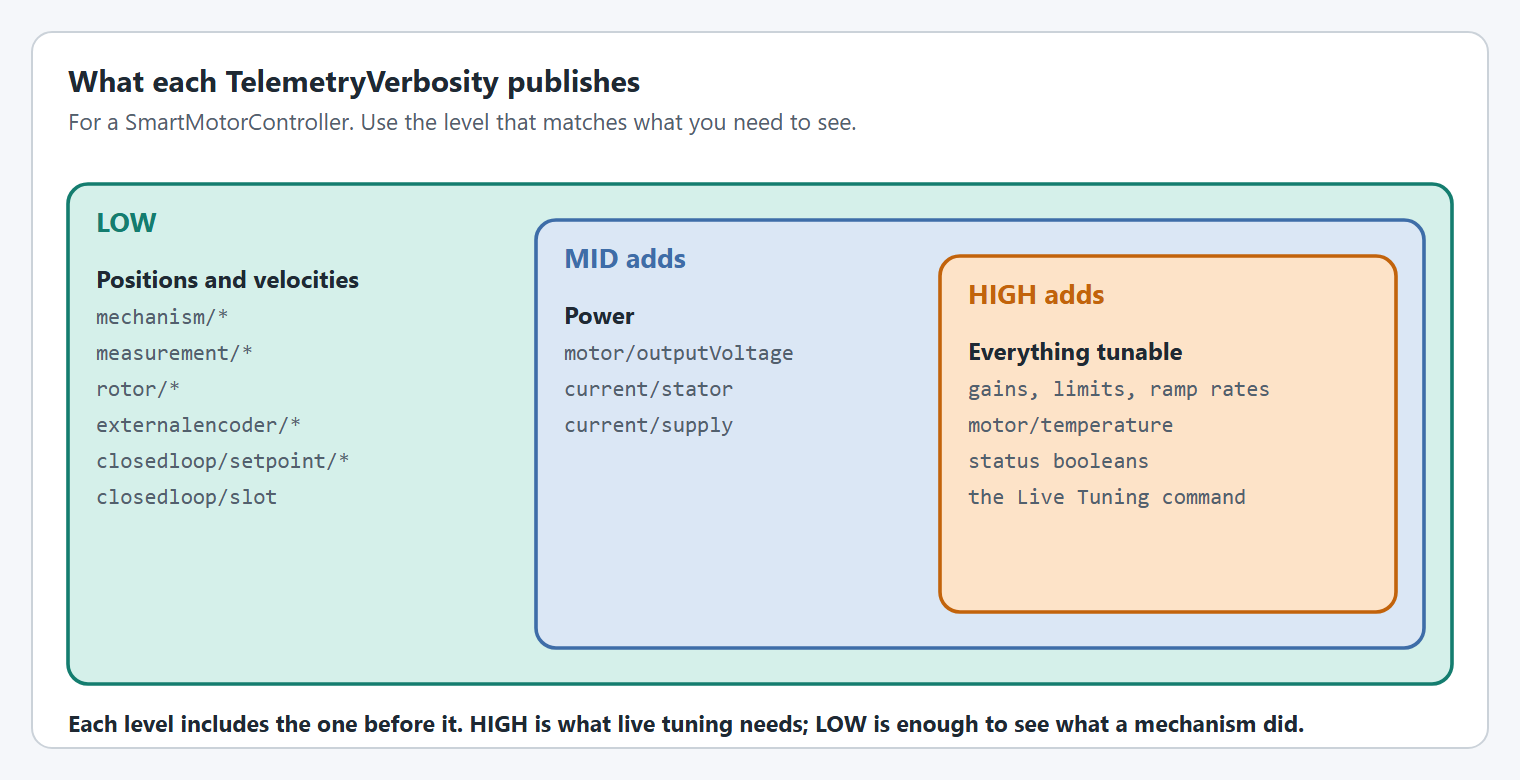
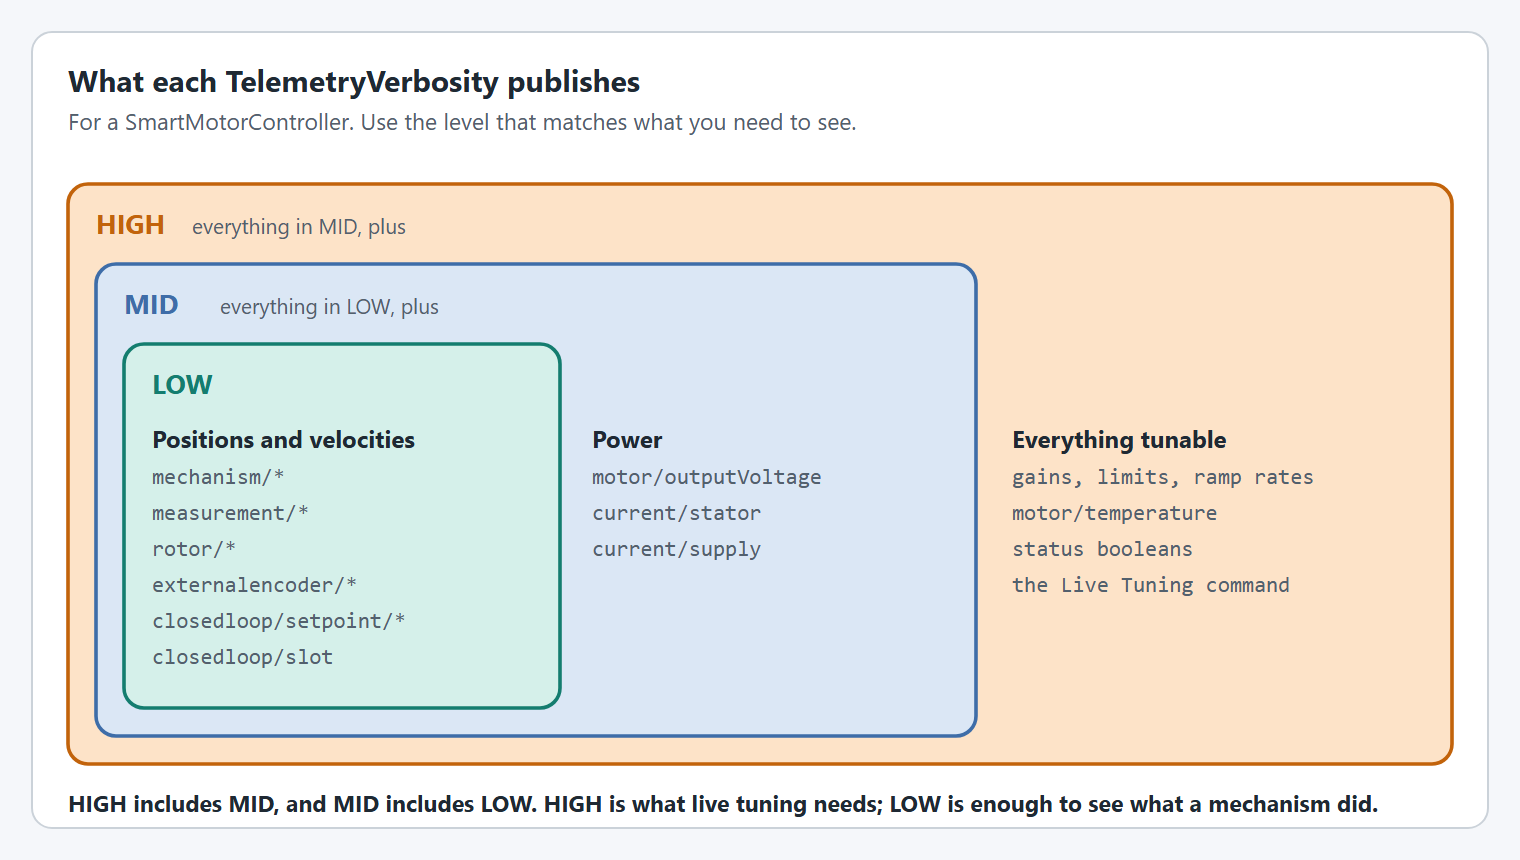
SwerveInputStream: one animation per function in its own section, and nest the verbosity graphic with HIGH outermost

Changed region(s): [[0.0309, 0.0308, 0.9895, 0.9846], [0.6803, 0.6769, 0.8349, 0.7077]]

diff --git a/details/swerve-input-stream.md b/details/swerve-input-stream.md
@@ -136,13 +136,26 @@ The scale is applied **before** the cube. With `withScaleTranslation(0.8)` and t
 
 ## Velocity Limits
 
+The maximum velocities are what a fully pushed stick produces.
+
+### `withMaximumLinearVelocity`
+
+`withMaximumLinearVelocity(LinearVelocity)` sets the top driving speed.
+
 <figure><img src="../.gitbook/assets/sis-velocity-limits.gif" alt="Animation of two robots with the stick fully pushed. With a maximum of 2.0 meters per second the robot moves slowly, with 4.5 meters per second it moves more than twice as fast"><figcaption><p>The same full stick with two maximum velocities.</p></figcaption></figure>
 
-`withMaximumLinearVelocity(LinearVelocity)` and `withMaximumAngularVelocity(AngularVelocity)` set the chassis speed a fully-deflected stick produces.
+```java
+input.withMaximumLinearVelocity(MetersPerSecond.of(4.5));
+```
+
+### `withMaximumAngularVelocity`
+
+`withMaximumAngularVelocity(AngularVelocity)` sets the top turn rate.
+
+<figure><img src="../.gitbook/assets/sis-max-angular-velocity.gif" alt="Animation of two robots with the right stick fully pushed. With a maximum of 180 degrees per second the robot turns slowly, with 360 degrees per second it turns twice as fast"><figcaption><p>The same full stick with two maximum angular velocities.</p></figcaption></figure>
 
 ```java
-input.withMaximumLinearVelocity(MetersPerSecond.of(4.5))
-     .withMaximumAngularVelocity(DegreesPerSecond.of(360));
+input.withMaximumAngularVelocity(DegreesPerSecond.of(360));
 ```
 
 {% hint style="info" %}
@@ -151,20 +164,33 @@ A stream copies `SwerveDriveConfig.withMaximumChassisSpeed(...)`'s value (if set
 
 ## Controller Axes
 
-<figure><img src="../.gitbook/assets/sis-controller-axes.gif" alt="Animation of the right stick turning the robot in two ways. With a rotation axis the stick sets how fast the robot spins. With heading axes the stick points in a direction and the robot turns to face it"><figcaption><p>A rotation axis sets a turn rate. Heading axes set a direction to face.</p></figcaption></figure>
+Both methods set or replace a rotation source after construction. That is useful when a stream starts out with `SwerveInputStream.of(drive, x, y)` (no rotation source at all) and gains one later.
 
-`withControllerRotationAxis(DoubleSupplier)` sets or replaces the rotation axis after construction, and `withControllerHeadingAxis(DoubleSupplier, DoubleSupplier)` sets or replaces the pair of axes used to compute a target heading for `HEADING` mode. Both are useful when a stream starts out with `SwerveInputStream.of(drive, x, y)` (no rotation source at all) and gains one later.
+### `withControllerRotationAxis`
+
+`withControllerRotationAxis(DoubleSupplier)` sets the axis that says how fast the robot turns.
+
+<figure><img src="../.gitbook/assets/sis-rotation-axis.gif" alt="Animation of the right stick pushed left and then right. Pushed left the robot turns counter-clockwise, pushed right it turns clockwise"><figcaption><p>One axis sets a turn rate.</p></figcaption></figure>
 
 ```java
 input.withControllerRotationAxis(() -> -driver.getRightX());
+```
+
+### `withControllerHeadingAxis`
+
+`withControllerHeadingAxis(DoubleSupplier, DoubleSupplier)` sets the pair of axes whose direction becomes a target heading. It does nothing on its own: the heading is used by [`withHeadingControl`](#withheadingcontrol) in `HEADING` mode.
+
+<figure><img src="../.gitbook/assets/sis-heading-axis.gif" alt="Animation of the right stick moving around its edge while a dial shows the heading it asks for. Stick up is 0 degrees, stick left is 90 degrees, stick down is 180 degrees and stick right is minus 90 degrees"><figcaption><p>Two axes set a direction to face.</p></figcaption></figure>
+
+```java
 input.withControllerHeadingAxis(() -> -driver.getRightX(), () -> -driver.getRightY());
 ```
 
 ## Deadband
 
-<figure><img src="../.gitbook/assets/sis-deadband.gif" alt="Animation of a stick at rest reading small non-zero values. Without a deadband the robot creeps across the field. With a 0.1 deadband it stays still"><figcaption><p>Stick drift with and without a deadband.</p></figcaption></figure>
-
 `withDeadband(double)` (an alias for `deadband(double)`) applies the same deadband to every axis before any scaling or cubing happens. `0` clears it.
+
+<figure><img src="../.gitbook/assets/sis-deadband.gif" alt="Animation of a stick at rest reading small non-zero values. Without a deadband the robot creeps across the field. With a 0.1 deadband it stays still"><figcaption><p>Stick drift with and without a deadband.</p></figcaption></figure>
 
 ```java
 input.withDeadband(0.05);
@@ -172,24 +198,50 @@ input.withDeadband(0.05);
 
 ## Axis Scaling
 
-<figure><img src="../.gitbook/assets/sis-scaling.gif" alt="Animation of two robots with the stick fully pushed. With no scale the robot moves at full speed, with a scale of 0.5 it moves at half speed"><figcaption><p>A scale of 0.5 as a slow mode.</p></figcaption></figure>
+The scale methods multiply the stick output by a constant in `(0, 1]`, useful for a "slow mode" that doesn't require re-mapping the physical stick range.
 
-`withScaleTranslation(double)` and `withScaleRotation(double)` multiply the translation and rotation axis output by a constant in `(0, 1]`, useful for a "slow mode" that doesn't require re-mapping the physical stick range.
+### `withScaleTranslation`
+
+`withScaleTranslation(double)` scales the driving speed.
+
+<figure><img src="../.gitbook/assets/sis-scaling.gif" alt="Animation of two robots with the left stick fully pushed. With no scale the robot moves at full speed, with a scale of 0.5 it moves at half speed"><figcaption><p>A translation scale of 0.5.</p></figcaption></figure>
 
 ```java
-input.withScaleTranslation(0.5)
-     .withScaleRotation(0.5); // e.g. bound to a "slow mode" trigger
+input.withScaleTranslation(0.5); // e.g. bound to a "slow mode" trigger
+```
+
+### `withScaleRotation`
+
+`withScaleRotation(double)` scales the turn rate.
+
+<figure><img src="../.gitbook/assets/sis-scale-rotation.gif" alt="Animation of two robots with the right stick fully pushed. With no scale the robot turns at the full rate, with a scale of 0.5 it turns at half the rate"><figcaption><p>A rotation scale of 0.5.</p></figcaption></figure>
+
+```java
+input.withScaleRotation(0.5);
 ```
 
 ## Non-Linear (Cubic) Response
 
+Cubing gives finer control near the center of the stick without sacrificing full speed at the edges. Each method also has a `BooleanSupplier` overload to toggle the effect live.
+
+### `withCubeTranslationControllerAxis`
+
+`withCubeTranslationControllerAxis()` cubes the translation magnitude.
+
 <figure><img src="../.gitbook/assets/sis-cube.gif" alt="Animation of a stick sweeping from center to full and back, with two bars and a graph. The linear output follows the stick. The cubed output stays very small until the stick is pushed far, then rises to the same maximum"><figcaption><p>Linear and cubed response to the same stick.</p></figcaption></figure>
 
-`withCubeTranslationControllerAxis()` and `withCubeRotationControllerAxis()` cube the translation magnitude and rotation axis respectively, giving finer control near the center of the stick without sacrificing full speed at the edges. Each also has a `BooleanSupplier` overload to toggle the effect live.
+```java
+input.withCubeTranslationControllerAxis();
+```
+
+### `withCubeRotationControllerAxis`
+
+`withCubeRotationControllerAxis()` cubes the rotation axis.
+
+<figure><img src="../.gitbook/assets/sis-cube-rotation.gif" alt="Animation of the right stick sweeping from center to full and back, with two bars and a graph. The linear turn rate follows the stick. The cubed turn rate stays very small until the stick is pushed far, then rises to the same maximum"><figcaption><p>Linear and cubed turn rate from the same stick.</p></figcaption></figure>
 
 ```java
-input.withCubeTranslationControllerAxis()
-     .withCubeRotationControllerAxis(driver::getBButton);
+input.withCubeRotationControllerAxis(driver::getBButton); // only while B is held
 ```
 
 ## Modes Are Chosen Automatically
@@ -198,17 +250,17 @@ A stream is always in exactly one of four internal modes: `ANGULAR_VELOCITY` (th
 
 `HEADING`, `AIM` and `TRANSLATION_ONLY` turn the robot with the rotation controller from `SwerveDriveConfig.withRotationController(...)`, so configure one before using them.
 
-<figure><img src="../.gitbook/assets/swerve-input-stream-modes.gif" alt="Animation of three modes. ANGULAR_VELOCITY: the right stick sets how fast the robot turns. HEADING: the right stick points where the robot should face and it turns there and holds. AIM: the robot keeps facing a target while the left stick drives it sideways"><figcaption><p>The three modes that turn the robot. <code>TRANSLATION_ONLY</code> holds the current heading instead.</p></figcaption></figure>
-
 {% hint style="info" %}
 `SwerveInputStream` used to have a `DRIVE_TO_POSE` mode and a matching `atTargetPose(...)` method; both have been removed. Use [`SwerveDrive.driveToPose(...)`](swerve-drive.md#auto-align) for auto-align instead.
 {% endhint %}
 
 ### Heading-Snap Control
 
-<figure><img src="../.gitbook/assets/sis-heading.gif" alt="Animation of the right stick pointing in three directions in turn, and the robot turning to face each direction and holding it"><figcaption><p><code>HEADING</code> mode: the robot faces where the right stick points.</p></figcaption></figure>
+#### `withHeadingControl`
 
-`withHeadingControl(trigger)` enables `HEADING` while `trigger` reports true, snapping to a heading derived from `withControllerHeadingAxis(x, y)` instead of rotating at a velocity. The robot stops turning while the heading stick is inside the deadband.
+`withHeadingControl(trigger)` enables `HEADING` while `trigger` reports true, snapping to a heading derived from [`withControllerHeadingAxis(x, y)`](#withcontrollerheadingaxis) instead of rotating at a velocity. The robot stops turning while the heading stick is inside the deadband.
+
+<figure><img src="../.gitbook/assets/sis-heading.gif" alt="Animation of the right stick pointing in three directions in turn, and the robot turning to face each direction and holding it"><figcaption><p><code>HEADING</code> mode: the robot faces where the right stick points.</p></figcaption></figure>
 
 ```java
 SwerveInputStream headingStream = input.clone()
@@ -216,7 +268,11 @@ SwerveInputStream headingStream = input.clone()
     .withHeadingControl(driver::getAButton);
 ```
 
-`withHeading(Supplier<Angle>)` faces a field-relative heading from code instead of a stick, and replaces any controller heading axes:
+#### `withHeading`
+
+`withHeading(Supplier<Angle>)` faces a field-relative heading from code instead of a stick, and replaces any controller heading axes.
+
+<figure><img src="../.gitbook/assets/sis-with-heading.gif" alt="Animation of a robot facing away from the driver station with both sticks at rest. While the A button is held the robot turns to face 90 degrees and holds it"><figcaption><p>A heading from code, enabled while A is held.</p></figcaption></figure>
 
 ```java
 input.withHeading(() -> Degrees.of(90))
@@ -225,9 +281,9 @@ input.withHeading(() -> Degrees.of(90))
 
 ### Aim At a Target
 
-<figure><img src="../.gitbook/assets/sis-aim.gif" alt="Animation of a robot driven left and right by the left stick while it stays facing a target on the field"><figcaption><p><code>AIM</code> mode: the left stick drives, the robot keeps facing the target.</p></figcaption></figure>
-
 `withAim(Supplier<Pose2d> targetPose, BooleanSupplier trigger)` enables `AIM` while `trigger` reports true, rotating to face `targetPose` while translation keeps working normally. See [Mutations Apply Immediately](#mutations-apply-immediately) above for an example that retargets it live.
+
+<figure><img src="../.gitbook/assets/sis-aim.gif" alt="Animation of a robot driven left and right by the left stick while it stays facing a target on the field"><figcaption><p><code>AIM</code> mode: the left stick drives, the robot keeps facing the target.</p></figcaption></figure>
 
 ```java
 input.withAim(() -> FieldConstants.SPEAKER_POSE, driver::getRightBumperButton);
@@ -235,9 +291,9 @@ input.withAim(() -> FieldConstants.SPEAKER_POSE, driver::getRightBumperButton);
 
 ### Translation Only
 
-<figure><img src="../.gitbook/assets/sis-translation-only.gif" alt="Animation of a robot driving across the field while the right stick is wiggled. The robot's heading stays at 30 degrees the whole time"><figcaption><p><code>TRANSLATION_ONLY</code> mode: the right stick is ignored and the heading is held.</p></figcaption></figure>
-
 `withTranslationOnly(trigger)` enables `TRANSLATION_ONLY` while `trigger` reports true, locking the current heading and suppressing rotation entirely:
+
+<figure><img src="../.gitbook/assets/sis-translation-only.gif" alt="Animation of a robot driving across the field while the right stick is wiggled. The robot's heading stays at 30 degrees the whole time"><figcaption><p><code>TRANSLATION_ONLY</code> mode: the right stick is ignored and the heading is held.</p></figcaption></figure>
 
 ```java
 input.withTranslationOnly(driver::getStartButton);
@@ -247,9 +303,9 @@ input.withTranslationOnly(driver::getStartButton);
 
 <figure><img src="../.gitbook/assets/swerve-input-stream-frames.png" alt="Three drawings of a robot facing up and to the left with the left stick pushed forward. Field relative: it moves away from your driver station. Robot relative: it moves toward its own front. On the red alliance with alliance relative control: translation is flipped 180 degrees and it still moves away from you"><figcaption><p>Field relative, robot relative and alliance relative control.</p></figcaption></figure>
 
-<figure><img src="../.gitbook/assets/sis-robot-relative.gif" alt="Animation of two robots facing up and to the left with the stick pushed forward. Field relative, the robot moves straight away from the driver station. Robot relative, it moves toward its own front"><figcaption><p>Stick forward, field relative and robot relative.</p></figcaption></figure>
-
 By default the translation axes are field relative. `withRobotRelative()` treats them as robot relative instead, so pushing the stick forward drives toward the robot's front. The stream still outputs **field-relative** `ChassisVelocities` (it converts using the current heading), so the drive command does not change. The `withRobotRelative(BooleanSupplier)` overload toggles it live, e.g. while a button is held.
+
+<figure><img src="../.gitbook/assets/sis-robot-relative.gif" alt="Animation of two robots facing up and to the left with the stick pushed forward. Field relative, the robot moves straight away from the driver station. Robot relative, it moves toward its own front"><figcaption><p>Stick forward, field relative and robot relative.</p></figcaption></figure>
 
 ```java
 input.withRobotRelative(driver::getXButton); // robot-relative while X is held
@@ -257,9 +313,9 @@ input.withRobotRelative(driver::getXButton); // robot-relative while X is held
 
 ## Alliance-Relative Control
 
-<figure><img src="../.gitbook/assets/sis-alliance-relative.gif" alt="Animation of a blue alliance robot and a red alliance robot, both with the stick pushed forward. Each one drives away from its own driver station, which are at opposite ends of the field"><figcaption><p>Stick forward on each alliance.</p></figcaption></figure>
-
 `withAllianceRelativeControl()` flips the field-relative translation 180 degrees on the Red alliance, so "forward" always means away from your own driver station regardless of which side you're on. `withAllianceRelativeControl(BooleanSupplier)` toggles it live.
+
+<figure><img src="../.gitbook/assets/sis-alliance-relative.gif" alt="Animation of a blue alliance robot and a red alliance robot, both with the stick pushed forward. Each one drives away from its own driver station, which are at opposite ends of the field"><figcaption><p>Stick forward on each alliance.</p></figcaption></figure>
 
 ```java
 input.withAllianceRelativeControl();
@@ -271,9 +327,9 @@ input.withAllianceRelativeControl();
 
 ## Translation Heading Offset
 
-<figure><img src="../.gitbook/assets/sis-heading-offset.gif" alt="Animation of two robots with the stick pushed forward. With no offset the robot moves forward. With a 90 degree offset it moves to the left"><figcaption><p>A 90° offset turns forward into left.</p></figcaption></figure>
-
 `withTranslationHeadingOffset(Rotation2d)` rotates the translation direction by a fixed angle before it's output, useful when a secondary driver's "forward" should map to something other than the robot's own forward. `withTranslationHeadingOffset(Rotation2d, BooleanSupplier)` only applies it while the supplier is true.
+
+<figure><img src="../.gitbook/assets/sis-heading-offset.gif" alt="Animation of two robots with the stick pushed forward. With no offset the robot moves forward. With a 90 degree offset it moves to the left"><figcaption><p>A 90° offset turns forward into left.</p></figcaption></figure>
 
 ```java
 input.withTranslationHeadingOffset(Rotation2d.fromDegrees(90));

diff --git a/understanding/telemetry.md b/understanding/telemetry.md
@@ -63,7 +63,7 @@ There are two ways to choose what a motor publishes: pick a verbosity level, or 
 
 `withTelemetry(name, TelemetryVerbosity)` is the quick way. Each level includes the one before it.
 
-<figure><img src="../.gitbook/assets/telemetry-verbosity.png" alt="Three nested boxes. LOW publishes positions and velocities. MID adds the output voltage and the stator and supply currents. HIGH adds everything tunable: gains, limits and ramp rates, the motor temperature, status booleans and the Live Tuning command"><figcaption><p>What each level adds.</p></figcaption></figure>
+<figure><img src="../.gitbook/assets/telemetry-verbosity.png" alt="Three nested boxes. The outer box is HIGH, which contains MID, which contains LOW. LOW publishes positions and velocities. MID is everything in LOW plus the output voltage and the stator and supply currents. HIGH is everything in MID plus everything tunable: gains, limits and ramp rates, the motor temperature, status booleans and the Live Tuning command"><figcaption><p>HIGH includes MID, and MID includes LOW.</p></figcaption></figure>
 
 | Level | Adds | Good for |
 | --- | --- | --- |
